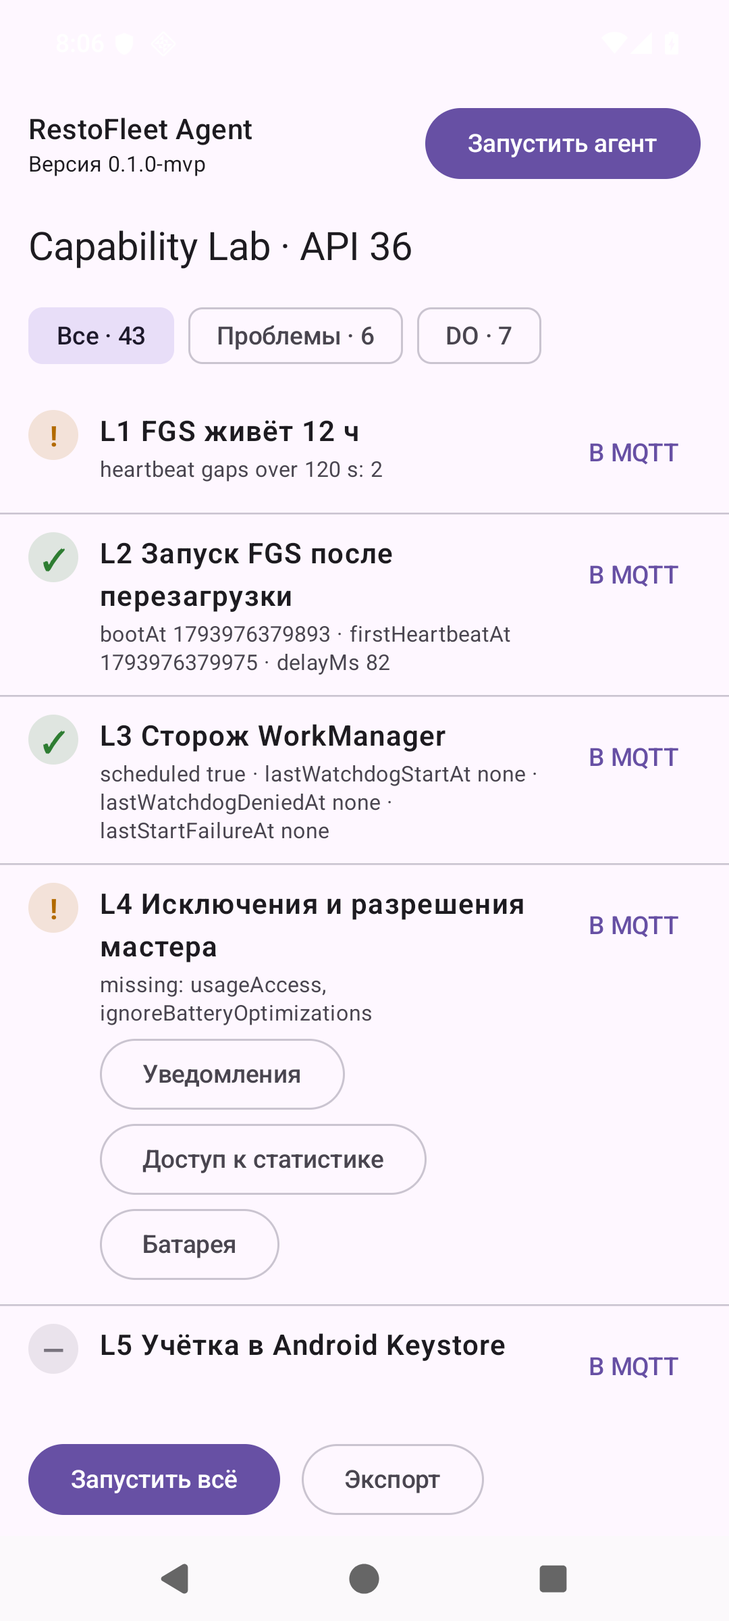
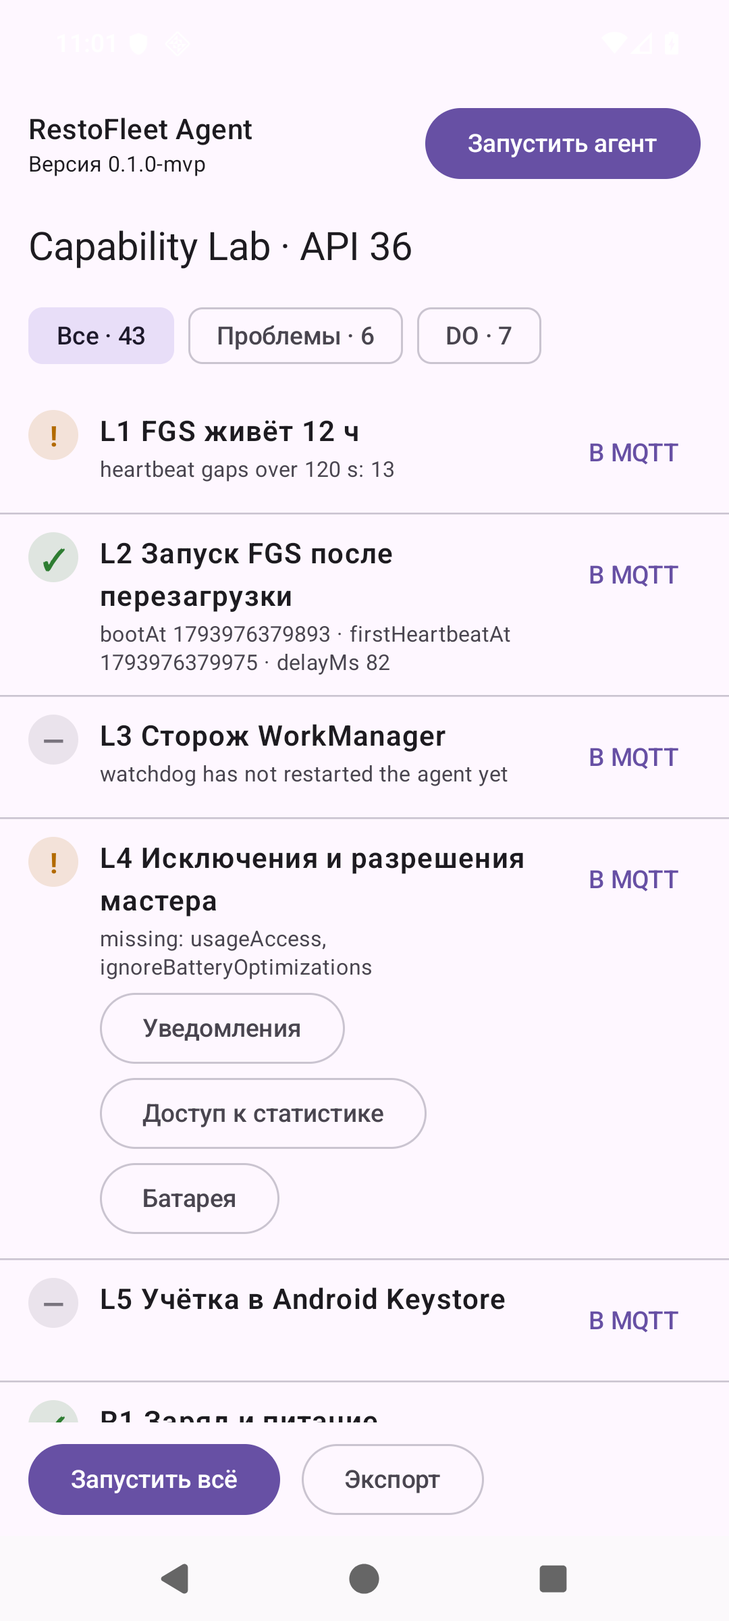
docs(mvp): M1 report and handoff

diff --git a/docs/reports/0-mvp/M1.md b/docs/reports/0-mvp/M1.md
@@ -1,0 +1,194 @@
+# Отчёт вехи M1 — агент: все считывания
+
+**Этап:** MVP-A · **Ветка:** `stage/0-mvp` · **Даты:** 06–07.11.2026 · **План:** `docs/superpowers/plans/2026-11-05-mvp-a.md`, задачи 1.1–1.10 · **Диапазон коммитов:** `5379cba..008162b` (затем коммит этой задачи)
+
+## Цель вехи
+
+Сделать Android-агент, который умеет считывать все показатели из матрицы возможностей и показывает результат на экране Capability Lab:
+- модуль `console:core:mvi` с каноном MVI (по `white-label-android`);
+- `agent:domain` — модель считываний, `CollectTelemetry`, каталог из 43 проверок, `RunCapabilityChecks`, `ExportCapabilityReport`;
+- `agent:data` — коллекторы R1–R9, R11, R12, R14, HTTPS-пробы P1–P3, журналы жизненного цикла, JSON-отчёт;
+- `agent:app` — FGS `specialUse`, автозапуск, сторож WorkManager, Koin;
+- `agent:presentation` — Capability Lab (MVI) с запуском проверок и экспортом отчёта.
+
+## Что сделано
+
+| Задача | Результат | Ключевые файлы |
+|---|---|---|
+| 1.1 | `console:core:mvi` (KMP: Android + JVM): контракты `MviIntent/Action/State/Effect`, `Reducer`, `MviStore`, `BaseMviViewModel` (`InstanceKeeper.Instance`, эффекты через `Channel`) | `console/core/mvi/src/commonMain/.../{MviStore,Reducer,BaseMviViewModel}.kt` |
+| 1.2 | `agent:domain`: модель (`Reading`, `UnavailableReason`, `BatteryState`, `Thermal`, `Network`, `DeviceResources`, `ForegroundApp`, `TelemetrySnapshot`) и порты `TelemetrySource`, `SequenceSource` | `agent/domain/.../model/*.kt`, `port/*.kt` |
+| 1.3 | `CollectTelemetry`: каждое считывание изолировано, сбой превращается в `Unavailable(Failed(...))` | `agent/domain/.../usecase/CollectTelemetry.kt` |
+| 1.4 | Каталог из 43 `CheckId`, `CheckStatus`, `CapabilityCheck`, `RunCapabilityChecks` (таймаут на проверку), `ExportCapabilityReport` | `agent/domain/.../capability/*.kt`, `usecase/*.kt` |
+| 1.5 | Первый Android-модуль `agent:data`: чистые функции маппинга Android → domain (батарея, термальный статус, сеть, ресурсы, приложение на экране, падение, пропуски heartbeat); отдельный Kover-гейт «ветви платформенного пакета 100 %» | `agent/data/.../platform/*.kt` |
+| 1.6 | Коллекторы R1–R9, R11, R12, R14, `ReadingCheck`, `SubscriptionCheck`, `CapabilityChecksFactory` | `agent/data/.../collectors/*.kt` |
+| 1.7 | HTTPS-пробы на OkHttp (классы ошибок, фазы соединения), проба шлюза, проверки P1–P3 | `agent/data/.../probes/*.kt`, `agent/domain/.../model/Probe.kt` |
+| 1.8 | `agent:app`: FGS `specialUse`, `BootReceiver`, `WatchdogWorker` (15 мин), журнал жизненного цикла, `HeartbeatLog`, проверки L1–L4, Koin | `agent/app/src/main/...`, `agent/data/.../lifecycle/*.kt` |
+| 1.9 | `agent:presentation`: Capability Lab (MVI), JSON-экспорт отчёта, порт `CheckResultPublisher` (в M1 — заглушка «MQTT не настроен»); P1 переведена на параллельный запуск целей | `agent/presentation/.../lab/**`, `agent/data/.../report/JsonCapabilityReportWriter.kt` |
+| Исправления по итоговому ревью вехи | 7 Important (I1–I7), перенесённые Minor, два раунда (решения 78–88) | см. раздел «Итоговое ревью вехи» |
+| 1.10 | Этот отчёт, пересъёмка скриншотов и JSON Lab, обновление документов этапа и handoff | `docs/reports/0-mvp/M1.md`, `img/`, `capability/` |
+
+## Решения
+
+См. `decisions.md`: записи 26–47 — задачи 1.2–1.7, 48–77 — задачи 1.8–1.9, 78–88 — исправления по ревью вехи. Главные:
+- **№ 27, 78:** `Error` не ловится (OOM не превращается в «все датчики Failed»); на границах изоляции `CancellationException` разбирается через `ensureActive()`: настоящая отмена идёт наружу, бродячая считается сбоем одного считывания.
+- **№ 39:** `ConnectException` в Android оборачивает разные errno, поэтому классификатор разбирает текст всей цепочки причин по errno (`ECONNREFUSED`, `ETIMEDOUT`, `ENETUNREACH`, `EPERM/EACCES`); иначе P3 принимал бы недостижимый шлюз за достижимый.
+- **№ 33:** `isEmulator` определяется по `Build.HARDWARE` (`ranchu`/`goldfish`) и префиксу fingerprint, а не по подстроке, как в плане: подстрока давала ложные срабатывания на реальных устройствах.
+- **№ 61:** весь цикл телеметрии (запись `start`, тик, heartbeat) идёт на инжектируемом `CoroutineDispatcher` (в проде — IO), а не на Main.
+- **№ 81, 88:** агент держит `PARTIAL_WAKE_LOCK` `RestoFleet:agent`, пока работает цикл; владелец замка — последний `Lease`. Цена по батарее записана как продуктовое решение и будет измерена в M4.
+- **№ 83:** R8 (приложение на переднем плане) stateful: первый запрос — с момента загрузки, дальше с прошлого запроса минус 60 с; иначе приложение, которое весь час не уходит с экрана, давало `Unavailable`.
+- **№ 84:** L3 = OK только после наблюдённого перезапуска сторожем; «запланирован, но ни разу не перезапускал» — `NOT_CHECKED`.
+
+## Метрики
+
+Команды: `./gradlew build koverHtmlReportCi koverXmlReportCi` (HEAD `008162b`, `BUILD SUCCESSFUL`, `rc=0`); число тестов — суммы атрибутов `tests/failures/errors/skipped` из `**/build/test-results/**/TEST-*.xml`; покрытие — из `reportCi.xml` каждого модуля и корня.
+
+| Модуль | Тестов | Строки | Ветви | Инструкции |
+|---|---|---|---|---|
+| `console:core:mvi` | 10 | 100 % (21/21) | 100 % (4/4) | 100 % |
+| `agent:domain` | 49 | 97,4 % (187/192) | 83,3 % (35/42) | 97,0 % |
+| `agent:data` | 297 | 97,4 % (851/874) | 87,6 % (416/475) | 95,7 % |
+| `agent:presentation` | 58 | 97,8 % (176/180) | 94,6 % (105/111) | 98,5 % |
+| `agent:app` | 39 | 98,1 % (158/161) | 71,8 % (28/39) | 98,8 % |
+| **M1, итого** | **453** | | | |
+| `shared:kernel` / `shared:protocol` / `konsist-tests` (M0) | 15 / 22 / 5 | 100 % / 100 % | | |
+| **Проект целиком (корневой агрегат)** | **495, 0 падений, 0 пропусков** | **97,0 % (1531/1579)** | 73,7 % (766/1039) | 93,3 % |
+
+- Гейты: проект ≥ 80 %, `agent:*` ≥ 90 % по строкам; ветви платформенного пакета `agent:data` — 100 % (отдельный вариант Kover `platform`). Ветви в `agent:app` (71,8 %) и в корне (73,7 %) ниже строк: гейт идёт по строкам; в корне ветви тянут вниз сгенерированные сериализаторы `shared:protocol` (48,1 %), как отмечено в M0.
+- Объём кода (`wc -l`, Kotlin; `cloc` не установлен): production — `agent:domain` 442, `agent:data` 2430, `agent:presentation` 774, `agent:app` 507, `console:core:mvi` 104, всего 4257 строк; тесты — 696, 3928, 813, 737, 187, всего 6361 строка.
+- Время сборки: повторная полная `build koverHtmlReportCi koverXmlReportCi` — 5 с (486 задач, 29 выполнено, остальные up-to-date). Время сборки с нуля в M1 не замерялось (`./gradlew clean` не делался); в M0 было ≈ 1 мин. Самый долгий из сохранённых логов полных прогонов M1 с большим числом выполненных задач — 17 с (`task-1.9-full.log`, 73 задачи выполнено).
+- Capability Lab на `rf-api36` (API 36, эмулятор, «Запустить всё» после исправлений), 43 записи в JSON: **ok — 12, limited — 3, unavailable — 3, not_checked — 25**.
+  - `limited`: L1 (13 пропусков heartbeat длиннее 120 с; `wakeLock=held`), L4 (не выданы `usageAccess` и исключение из оптимизации батареи), P1 (`nonexistent: expected dns_fail, got tls_error`).
+  - `unavailable`: R5 (`PermissionMissing: ACCESS_FINE_LOCATION`), R8 (`PermissionMissing: PACKAGE_USAGE_STATS`), R11 (`missing sensor: significant_motion`).
+  - `not_checked` (25): L3, L5, R10, R13, P4, C1–C4, D1–D7, M1–M7, RS1–RS2. Для L3 это новое поведение (решение 84): в снимках задачи 1.9 L3 был ✅ без доказательства.
+  - Для сравнения, снимок задачи 1.9 (до исправлений): ok 13, not_checked 24, limited 3, unavailable 3.
+  - В JSON нет MAC, IMEI и серийного номера (`grep -ciE` — 0 совпадений).
+- Wake lock: `adb shell dumpsys power | grep -i restofleet` → `PARTIAL_WAKE_LOCK 'RestoFleet:agent' ACQ=-6m4s600ms LONG (uid=10150 ...)`; `Wake Locks: size=1`.
+
+![Lab после «Запустить всё»](img/lab-api36-1.png)
+![Вкладка «Проблемы»](img/lab-api36-2.png)
+![Проблемы, блок P1](img/lab-api36-3.png)
+
+## Ручная пересъёмка Lab (задача 1.10)
+
+Это же — первая ручная проверка Lab после исправлений: в раунде исправлений Lab «Запустить всё» через UI не прогонялся. AVD `rf-api36`, `-no-window -no-audio -no-boot-anim -port 5600`, debug-APK поставлен поверх (`install -t -r`), нажатия через `uiautomator dump` и `input tap`.
+- «Запустить всё» отработало до конца, все строки получили статусы; кнопки остались рабочими: после прогона «Экспорт» создал новый файл (9952 байта).
+- «Экспорт», нажатый сразу после «Запустить всё», проигнорирован: файл отчёта на третьей секунде сохранял старое время изменения. Это косвенное доказательство (прямого наблюдения без таймстемпа не было).
+- Foreground-сервис: `isForeground=true`, `types=0x40000000` (specialUse).
+- L1 показывает 13 пропусков heartbeat; максимальный — 14 156 166 мс (≈ 3,9 ч). Причину (вероятно, приостановка AVD при загрузке из снимка) не проверяли.
+- P1 `nonexistent.invalid` по-прежнему даёт `tls_error` за 1472 мс (см. «Что осталось»).
+- `adb emu kill` выполнен, `adb devices` пуст.
+
+## Как проверялось, что тесты что-то ловят
+
+Мутационные проверки из отчётов задач и повторных ревью (мутация делалась временной правкой production-кода и откатом):
+
+| Что сломали | Результат |
+|---|---|
+| 1.5: убрана строка `setOf(4) to NetworkType.OTHER` из теста сети | `koverVerifyPlatform` упал: ветви 98 % при пороге 100 % |
+| 1.6: условие ожидания старта в `SubscriptionCheck.run()` → `if (false)` | упали `runRightAfterCreationWaitsForSubscriptionStart` и `subscriptionThatNeverStartsIsNotChecked` |
+| 1.7: удалён `invokeOnCancellation` в `OkHttpProbeExecutor` | упал тест отмены |
+| 1.7: удалён `socket.close()` в `GatewayProbe` | упал тест отмены |
+| 1.9: P1 запускалась последовательно (проверка на виртуальном времени) | `p1ProbesTargetsConcurrentlyAndKeepsOrder`: 21 000 мс вместо 6 000 |
+| Раунд 1, повторное ревью: убрана ветка `NOT_CHECKED` в `LifecycleChecks` | упали 3 теста L3 |
+| убран `hold` на тике / в `AgentCycle.start` | упали `loopRenewsWakeLockOnEveryTick`, `loopReleasesWakeLockWhenItIsCancelled` / `cycleHoldsWakeLockFromStartAndReleasesItOnStop` |
+| убран `release` в `stop()` | упал `cycleHoldsWakeLockFromStartAndReleasesItOnStop` (**не** эквивалентный мутант: без синхронного release замок держится до обработки отмены корутины; эквивалентным он ошибочно назван в отчёте исправлений) |
+| `TelemetryLoop`: убран `ensureActive`; CE бросается всегда | упали `outerCancellationStopsTheLoop`, `outerCancellationDuringStrayCancellationStillStopsTheLoop` / `strayCancellationFromTickDoesNotKillTheLoop` |
+| `CollectTelemetry`, `RunCapabilityChecks`, `P1Check`: CE бросается всегда | упали `strayCancellationFromReadingIsAFailureNotAnAbort`, `strayCancellationFromCheckDoesNotAbortTheRun`, `p1StrayCancellationIsUnavailableNotAnAbort` и парные |
+| `CollectTelemetry`: убран `withTimeoutOrNull`; `AndroidTelemetrySource`: убран `runInterruptible` | упали `hangingReadingTimesOutAndOthersAreCollected`, `everyHangingReadingGetsItsOwnTimeout` / `everyBlockingReadingGoesThroughTheIoDispatcher` |
+| `AgentService`: убраны catch отказов, `START_NOT_STICKY` → `START_STICKY`, убран `stopSelf` | упали 3, 2 и 2 теста соответственно |
+| R8: `lastApp = null`; окно `now − 1 ч`; убран `previous` в резолвере | упали `secondReadWithoutNewEventsKeepsForegroundApp`, `switchingFromAToBAndStayingOnBKeepsB` / 4 теста, включая `appResumedTwoHoursAgoIsStillForeground` / по 2 теста коллектора и резолвера |
+| Раунд 2: в `CollectTelemetry`, `RunCapabilityChecks`, `P1Check` убран `ensureActive()` (выживали после раунда 1) | упали `cancellationOfCallerInsideReadingStopsCollectionInInvokeItself`, `cancellationOfCallerInsideCheckStopsTheRunInInvokeItself`, `p1CancellationOfCallerInsideProbeIsRethrownByRunItself` |
+| `LabViewModel.export` / `runAll`: `finally` заменён / убран | упали `errorFromExportResetsProgressAndIsNotSwallowed`, `errorFromCheckInRunAllResetsFlagsAndIsNotSwallowed` |
+| R8: `lastQueryAt = null` вместо `now` | упал `secondQueryIsIncrementalNotFromBootAgain` |
+| Wake lock: `release`/`renew` без проверки владельца; нет `invokeOnCompletion { release }` | упали `lateCompletionOfStoppedCycleDoesNotReleaseTheLockOfTheNewCycle`, `supersededLeaseCannotReleaseOrRenewTheNewOwnersLock`, `cycleThatDiesByItselfReleasesItsLock` |
+
+Оговорки, которые нужно помнить при цитировании:
+- Красная стадия у большинства находок раунда исправлений — ошибка компиляции (новые параметры и классы), а не падение утверждения; поведенческий RED снят только для I3 и #2a. Для I7 RED снят после реализации откатом файлов.
+- В задаче 1.8 поведенческое падение каждого нового теста `agent:app` по отдельности не фиксировалось.
+- Тесты, написанные вместе с кодом без красной стадии: `GatewayResolverTest`, `NetworkAvailabilityTest` (1.7).
+- Выжившие мутанты после раунда 2: `@Synchronized` у `ForegroundAppCollector` тестом не закреплён (детерминированного теста на гонку нет); проверка вручную — в M4.
+
+## Проблемы и как решены
+
+1. **Ложный OK у `SubscriptionCheck` (ревью 1.6).** Проверка возвращала OK после отмены подписки и до первого `collect`. Теперь OK — только при живой подписке, отмена или завершение → UNAVAILABLE, не стартовала за 2 с → NOT_CHECKED (№ 34). Тест гонки сначала оказался «пустым» (проходил без ожидания) — переписан и проверен мутацией `if (false)`.
+2. **Классификация сетевых ошибок (ревью 1.7).** Все `ConnectException` считались `CONN_REFUSED`, поэтому P3 принимала недостижимый шлюз за достижимый. Классификатор разбирает errno по всей цепочке причин (№ 39); цель `conn_refused` в P1 заменена на `https://127.0.0.1:9/` (план предлагал `10.0.2.2:9`, что работает только на эмуляторе); расхождение P1 даёт LIMITED с `raw` по каждой цели.
+3. **P1 не укладывалась в таймаут проверки.** Шесть целей последовательно — до 28 с против 10 с на проверку. Цели запускаются параллельно (`coroutineScope` + `async`); тест на виртуальном времени: 6 000 мс вместо 21 000.
+4. **Цикл телеметрии и файловый ввод-вывод на Main (ревью 1.8).** Цикл переведён на инжектируемый IO-диспетчер (№ 61).
+5. **Журнал мог блокировать автозапуск (ревью 1.8).** Ошибка записи журнала (`IOException`) останавливала `BootReceiver` и могла уронить сервис. Запись стала best effort (№ 62); оборванный хвост вырезается атомарно (№ 63).
+6. **Нет доказательства, что сторож создаётся Koin-фабрикой (ревью 1.8).** Добавлены Robolectric-тесты на реальном `RestoFleetApp` (№ 68). Живой запуск сторожа на эмуляторе получить не удалось: WorkManager откладывает периодическую работу, запущенную раньше срока, даже при принудительном запуске job.
+7. **Агент не держал wake lock (ревью вехи, I2).** Без него `delay(30 с)` не будит CPU, а L1 измерял бы нашу реализацию, а не платформу. Добавлен `PARTIAL_WAKE_LOCK`; повторное ревью нашло гонку «старый цикл снимает замок нового» (N2), исправлено моделью `Lease` (№ 88).
+8. **Бродячий `CancellationException` убивал цикл и прогон Lab (I3).** Тест плана `cancellationIsNotSwallowed` закреплял ошибку (см. отклонения). Исправлено на всех границах изоляции.
+
+## Отклонения от плана
+
+Все решения-«Ruling» M1 из журнала, человеческим языком:
+- **Исполнители.** `kmp-exec` для KMP-модулей, `android-exec` для Android-модулей, модель sonnet; бриф и `constraints.md` приоритетнее их продуктового канона. Задача 1.7 отдана одному `android-exec`, хотя `Probe.kt` лежит в `agent:domain`: два диспетчера ради двух файлов дольше.
+- **Брифы задач** формирует `tools/dev/task-brief.py`: скрипт SDD ищет заголовки `Task N`, а в плане — `Задача N`.
+- **1.2: тестов на сгенерированные члены data class нет.** Покрытие моделей берётся из поведенческих тестов.
+- **1.3: ловится `Exception`, а не `Throwable`.** Прежняя директива контроллера «catch Throwable» была неверной: `Error` не должен превращаться в «все датчики Failed» (№ 27).
+- **1.6: `ACCESS_COARSE_LOCATION` оставлен**, хотя ревьюер просил убрать: при `targetSdk ≥ 31` запрос FINE без COARSE игнорируется. `isEmulator` — вместо подстроки из плана (№ 33). `CheckIdTest` закрепляет 43 как число проверок спецификации.
+- **1.7: P1 `conn_refused` — `127.0.0.1:9`, расхождение P1 — LIMITED (не UNAVAILABLE) с `raw`;** `ConnectException` классифицируется по errno (`EHOSTUNREACH` и неизвестное → `OTHER`, новое значение enum не вводилось: он зафиксирован протоколом).
+- **R-M1 (до 1.9).** Порт `CheckResultPublisher` и use case `PublishCheckResult` вводятся в 1.9, потому что MQTT появится только в 3.6; пока подставлена реализация «MQTT не настроен», 3.6 её заменит.
+- **R-M2.** В `agent:data` добавлены `kotlinx-serialization-json` и плагин сериализации (для JSON-отчёта).
+- **R-M3.** `OutboxEntity` в 3.3 будет хранить `kind`, `payload`, `qos`, `retain`, `correlationData`, `responseTopic`, `createdAt`, иначе буферизованные ответы на команды потеряют топик ответа.
+- **Каркас Kover для Android-модулей** — вариант `ci` и `kover(project)` в корне — вносится в каждую задачу (решение 18).
+- **1.8: живая проверка сторожа перенесена в M4** (WorkManager не выполняет периодическую работу раньше срока); перезапуск доказан тестами Koin-фабрики.
+- **Раунд исправлений и план.** Тест плана `cancellationIsNotSwallowed` закреплял ошибку, поэтому семантика уточнена: настоящая внешняя отмена идёт наружу, `CancellationException` от считывания при активном вызывающем — сбой (`ensureActive`-паттерн).
+- **I2: wake lock берётся на всё время цикла.** Планшеты ресторанов стоят на питании, приложение вне Play; цену по батарее измеряем в M4. Обратимо удалением держателя.
+- **I6: процедура L3 из матрицы неработоспособна.** `am kill` не убивает процесс с FGS, `START_STICKY` поднимает сервис раньше сторожа. Процедура заменена в `0-mvp-feasibility.md` (остановить сервис без sticky-перезапуска, дождаться периода сторожа, ожидать `start|watchdog`).
+- **Один раунд исправлений вехи → два.** Правило «одна волна исправлений» нарушено сознательно: после первого раунда повторное ревью нашло, что `ensureActive()` в трёх местах тестами не закреплён (выживающие мутанты на ядре гарантии I3) и дыру в I2 (запоздалый release старого цикла). N2 из Minor повышен до Important: в suspend следующий тик может не прийти, и замок пропал бы навсегда. Второй раунд ограничен: тесты N1 и N3, исправление владельца замка, повторное ревью.
+
+## Итоговое ревью вехи
+
+Независимый ревьюер (отдельный агент, модель opus) проверил диапазон `5379cba..9c841d7`: прочитал дифф production-кода целиком, тесты — выборочно, сверился с Kover-отчётом и экспортом Lab; сами тесты не запускал. Результат: Critical — 0, Important — 7, Minor — 8 (m1–m8) плюс 4 перенесённых из ревью 1.9. Вердикт: «Ready to merge: With fixes». Исправления делал исполнитель; первое повторное ревью (sonnet, мутации в отдельном worktree) — «Needs fixes», второе (sonnet, после раунда 2, 4 собственные мутации) — «Approved».
+
+| Находка | Исправление | Тест |
+|---|---|---|
+| I1. R8 пропадает, если приложение на экране дольше часа | коллектор stateful: окно от загрузки, затем от прошлого запроса − 60 с, `PAUSED` снимает (№ 83) | `appResumedTwoHoursAgoIsStillForeground`, `secondReadWithoutNewEventsKeepsForegroundApp`, `switchingFromAToBAndStayingOnBKeepsB`, `UsageWindowTest`, `secondQueryIsIncrementalNotFromBootAgain` |
+| I2. Нет wake lock — тики останавливаются в suspend | `PARTIAL_WAKE_LOCK`, продление на каждом тике, release в `stop` и по завершении корутины; признак `wakeLock` в raw L1 (№ 81, 88) | `loopRenewsWakeLockOnEveryTick`, `cycleHoldsWakeLockFromStartAndReleasesItOnStop`, `AndroidCpuWakeLockTest`, `runningCycleHoldsPartialWakeLockAndReleasesItOnDestroy`, `lateCompletionOfStoppedCycleDoesNotReleaseTheLockOfTheNewCycle` |
+| I3. Бродячий `CancellationException` убивает цикл и прогон Lab | `ensureActive()` на границах: `TelemetryLoop`, `CollectTelemetry`, `RunCapabilityChecks`, `P1Check`, `LabViewModel` (№ 78) | `strayCancellationFromTickDoesNotKillTheLoop`, `innerTimeoutOfOneCheckDoesNotAbortTheRun`, `p1StrayCancellationIsUnavailableNotAnAbort`; раунд 2 — три теста «ensureActive в `invoke`» |
+| I4. `LabViewModel`: зависшие флаги, исключение роняет процесс | флаги в `finally`, `Exception` → `LabMessage.Error`, `CoroutineExceptionHandler` в scope (№ 79) | `throwingExportResetsProgressAndShowsError`, `strayCancellationInRunAllDoesNotLeaveRunAllStuck`, `errorFromExportResetsProgressAndIsNotSwallowed`, `errorFromCheckInRunAllResetsFlagsAndIsNotSwallowed` |
+| I5. Незащищённый `startForeground` → цикл падений на API 31+ | шов `ForegroundStarter`, `start_denied(foreground_not_allowed)` / `start_failed`, `stopSelf`, `START_NOT_STICKY` (№ 80) | `deniedStartForegroundIsJournaledAndDoesNotCrash`, `otherStartForegroundFailuresAreJournaledAsFailedWithClassName`, `refusedForegroundDoesNotStopServiceOnDestroyWithAStopRecord` |
+| I6. L3 = OK без единого перезапуска сторожем | OK только после `start|watchdog` позже последнего срыва; иначе `NOT_CHECKED` (№ 84) | четыре ветки L3 + два новых случая в тестах `LifecycleChecks` |
+| I7. Зависание одного считывания останавливает цикл | таймаут считывания 5 с, `runInterruptible` на IO (№ 82) | `hangingReadingTimesOutAndOthersAreCollected`, `everyBlockingReadingGoesThroughTheIoDispatcher` |
+| 1.9 #1. Исключения Kover по именам слишком широкие | выбор `@StringRes` вынесен в `StringSpec.kt`; исключены только фасады UI (№ 85) | `StringSpecTest` |
+| 1.9 #2a. Отчёт оставлял `.tmp` при сбое | `.tmp` удаляется в `finally` (№ 87) | `targetNameOccupiedByDirectoryFailsAndLeavesNoTempFile` |
+| 1.9 #3b. «Экспорт» во время «Запустить всё» запускал проверки дважды | экспорт игнорируется (№ 86) | `exportIsIgnoredWhileRunAllIsInProgress` |
+| 1.9 #4, m1. Koin verify и тавтологический тест сторожа | `Long`/`CoroutineScope` только в `appModule.verify`; тест сторожа переписан (№ 87) | `KoinGraphTest`, `KoinModulesVerifyTest`, `WatchdogSchedulerTest` |
+| N1 (повторное ревью, Important). `ensureActive()` и `finally` флагов Lab не закреплены | тесты (см. мутации раунда 2) | см. таблицу мутаций |
+| N2 (Minor → Important). Старый цикл снимает замок нового | модель `Lease` (№ 88) | `supersededLeaseCannotReleaseOrRenewTheNewOwnersLock`, `cycleThatDiesByItselfReleasesItsLock` |
+| N3. Нет теста инкрементального окна R8 | тест окна; `@Synchronized` без теста — принято, проверка в M4 | `secondQueryIsIncrementalNotFromBootAgain` |
+
+Отложенные Minor и вехи, в которые они перенесены:
+- **M2:** m4 — неквалифицированный `single<OkHttpClient>` для проб, заменить qualifier'ом при добавлении загрузчика APK (D3); m8 — отчёт на внешнем хранилище читается на API 26–28, серийный номер (R13) в `raw` маскировать (последние 4 символа или хеш).
+- **M3:** m2 — L1/L2 опираются на настенные часы (хранить `elapsedRealtime`); m5 — статические `<queries>` и фиксированный интервал телеметрии против управляемого тенью списка; rec5 — `LifecycleJournal` синхронный и пишется с Main, нужен `suspend`-порт `LifecycleEvents` и `goAsync()` в `BootReceiver` (Room запрещает главный поток); N4 — запись журнала на Main при отказе FGS; непрерываемые binder-зависания не бросаются; персистентный `seq` и ограничение длины `Failed(message)`; порядок «outbox → heartbeat» в `TelemetryTick` (L1 должен означать «телеметрия сохранена», а не «цикл жив», решение 54).
+- **M4:** m3 — в `raw` P1 нет улик по целям (фазы, класс исключения); перенос целей 503 и просроченного сертификата на стенд; R8 `@Synchronized` без теста; `callTimeout` не прерывает блокирующий системный DNS; `ConnectionPool(0)` под N проб; замер цены wake lock.
+- **Позже:** m6 — у уведомления FGS нет `contentIntent`; m7 — проводка тика в исключённом `di` не проверена сквозным тестом; «экспорт результатов текущей сессии»; порядок `owner = lease` до `lock.acquire` в `CpuWakeLock.acquire` (безвредно при `SecurityException`); мелкие замечания к ревью задач 1.1–1.9 (имена тестов, длинные строки, класс `WatchdogWorker.kt` с тремя классами и т. п.) — в `progress.md` помечены `minor (deferred)`.
+- Ревьюер отказался судить (нужны данные M4/MVP-B): Direct Boot, force-stop и вендорские «убийцы фона», разрешение на локальную сеть при `targetSdk 37` (решения 47, 59), системный HTTP-прокси для проб, ложные срабатывания `isEmulator` на дешёвых AOSP-планшетах.
+
+## Что осталось
+
+- **Живой запуск сторожа (L3)** — M4: остановить сервис без sticky-перезапуска, дождаться периода 15 мин, ожидать `start|watchdog` в журнале. Сейчас L3 = `NOT_CHECKED`.
+- **L1 на образе или устройстве, которое засыпает** — M4 (экран выключен, без питания); на эмуляторе без выключения экрана L1 показывает пропуски heartbeat (13 на `rf-api36`), причина не расследовалась.
+- **P1 `nonexistent.invalid` → `tls_error` вместо `dns_fail`.** По коду это поведение среды: `UnknownHostException` в цепочке проверяется раньше TLS-ошибок, значит, резолвер вернул адрес и сертификат не подошёл (подмена NXDOMAIN или прокси AVD — гипотеза, не проверена). Фиксируем как дефект среды стенда, не агента. Чтобы закрыть вопрос, нужны улики в `raw` P1 (адрес и фазы) и проверка на реальной сети — M4. Повторилось при пересъёмке: `tls_error`, 1472 мс.
+- **Маскировка серийного номера R13** — M2; **qualifier OkHttp** — M2; **порт `LifecycleEvents` и Room-outbox** — M3.
+- Проверки со статусом `not_checked` (L5, R10, R13, P4, C1–C4, D1–D7, M1–M7, RS1–RS2) относятся к M2–M4.
+- Ветви `agent:app` (71,8 %) ниже строк; светлые значки статус-бара на светлом фоне Lab; сводка Lab показывает epoch-миллисекунды и английские примечания (L2, L1) — отформатировать для скриншотов в тексте работы (M4 или диплом).
+- Ручная проверка на реальном устройстве не проводилась.
+- Первый прогон CI — после создания GitHub-репозитория и пуша.
+
+## Тезисы для текста работы
+
+1. **Архитектура агента.** Android-агент построен по Clean Architecture из четырёх модулей: `domain` (мультиплатформенный, без зависимостей от Android, сериализации и DI), `data` (коллекторы, HTTPS-пробы, журналы, отчёт), `presentation` (экран Capability Lab) и `app` (корень композиции: сервис переднего плана, приёмник перезагрузки, сторож, Koin). Правило зависимостей проверяется автоматически архитектурными тестами Konsist. Объём кода вехи — 4257 строк production-кода и 6361 строка тестов на Kotlin.
+
+2. **Изоляция сбоев.** Каждое считывание показателя, каждая проверка возможностей и каждый тик цикла выполняются в собственном перехватчике исключений, поэтому отказ одного датчика или отозванное разрешение не останавливают остальные считывания. Критические ошибки (`Error`) не перехватываются, чтобы не маскироваться под «все датчики недоступны». Особый случай — отмена корутины: настоящая отмена пробрасывается наружу, а «бродячее» исключение отмены (например, из внутреннего таймаута) считается сбоем одного считывания. Для каждого считывания введён таймаут 5 с. Ревью обнаружило, что исходная схема останавливала телеметрию навсегда при одном зависании; после исправления поведение закреплено тестами, мутации которых падают.
+
+3. **Capability Lab и матрица возможностей.** Экран Capability Lab запускает 43 проверки матрицы возможностей, показывает статус каждой (`ok`, `limited`, `unavailable`, `not_checked`) и сырые значения и экспортирует результат в JSON-отчёт, из которого собирается матрица для текста работы. На эмуляторе Android 16 (API 36) 12 проверок вернули `ok`, 3 — `limited`, 3 — `unavailable`, 25 — `not_checked` (проверки Device Owner, команд и MQTT относятся к следующим вехам). Отчёт не содержит IMEI, MAC-адресов и серийного номера. Проверка, отмеченная `ok` без доказательства, считалась дефектом: так, проверка сторожа L3 переведена в `not_checked` до наблюдаемого перезапуска.
+
+4. **Надёжность фоновой работы.** Агент работает как сервис переднего плана типа `specialUse`, автоматически запускается после перезагрузки и перезапускается сторожем WorkManager с периодом 15 минут. Журнал жизненного цикла и heartbeat устойчивы к обрыву записи: оборванный хвост отбрасывается и вырезается атомарно, ошибка записи не мешает автозапуску. Итоговое ревью показало, что без удержания `PARTIAL_WAKE_LOCK` телеметрия останавливается при выключенном экране; замок добавлен, а его владение (последний `Lease`) исключает гонку между старым и новым циклом. Влияние на батарею будет измерено на этапе проверки матрицы (M4).
+
+5. **Проверки доступности сети.** Проба HTTPS на OkHttp измеряет фазы соединения (DNS, TCP, TLS) и классифицирует ошибки по классам протокола. Ошибки сокета Android различаются по errno (в одном `ConnectException` приходят `ECONNREFUSED`, `ETIMEDOUT`, `ENETUNREACH`, `EPERM`), поэтому классификатор разбирает всю цепочку причин; иначе недостижимый шлюз принимался бы за достижимый. Шесть целей проверки P1 запускаются параллельно: тест на виртуальном времени показал 6 000 мс вместо 21 000 мс при последовательном запуске. На эмуляторе одна цель (`nonexistent.invalid`) вернула `tls_error` вместо `dns_fail`; по коду это поведение среды (имя разрешилось), проверка на реальной сети перенесена в M4.
+
+6. **Метод тестирования.** Разработка велась по TDD с красной стадией; для проверки самих тестов применялись мутационные проверки: временная порча production-кода (удаление `ensureActive()`, `finally`, `release`, ветки статуса) должна приводить к падению поведенческого теста. Такие проверки нашли тесты, которые не ловили ошибок (например, тест гонки в `SubscriptionCheck` проходил без ожидания, а `ensureActive()` в трёх местах не был закреплён); они переписаны. К оговоркам относится то, что у большинства находок раунда исправлений красная стадия фиксировалась как ошибка компиляции, а не как падение утверждения.
+
+7. **Результаты по метрикам.** К концу вехи в проекте 495 unit-тестов (453 из них — в модулях вехи M1), падений и пропусков нет. Покрытие строк по Kover (вариант `ci`): `agent:domain` 97,4 %, `agent:data` 97,4 %, `agent:presentation` 97,8 %, `agent:app` 98,1 %, весь проект 97,0 % при гейте 80 %. Покрытие ветвей ниже (в корне 73,7 %): гейт задан по строкам, а ветви завышают сгенерированные сериализаторы; для платформенного пакета `agent:data` отдельным гейтом требуется 100 % ветвей, и он выполнен. Повторная полная сборка занимает около 5 с; время сборки с нуля в этой вехе не измерялось.

diff --git a/docs/architecture.md b/docs/architecture.md
@@ -89,6 +89,7 @@ flowchart LR
 - Протокол MQTT (`shared:protocol`) — это **DTO транспорта**, т.е. слой data. Domain о JSON и топиках не знает; мапперы `TelemetryDto ↔ TelemetrySnapshot` — в data.
 - Ошибки: data превращает исключения в `DomainError` (тип `Outcome<T, E>` в `shared:kernel`; имя выбрано, чтобы не затенять `kotlin.Result`); presentation превращает `DomainError` в UI-сообщение или HTTP-статус.
 - Время и случайность — через порты `Clock`, `IdGenerator`: use cases детерминированно тестируются.
+- **Изоляция сбоев на границе** (решения 27, 78, 82): каждое считывание, проверка Lab и тик цикла — в своём `try`. Ловится `Exception`, `Error` пробрасывается. `CancellationException` на границе не пробрасывается вслепую: `currentCoroutineContext().ensureActive()` отделяет настоящую отмену (наружу) от бродячей (внутренний `withTimeout`, `Future.get()` отменённого future) — та считается сбоем одного считывания. У каждого считывания свой таймаут (5 с), блокирующие вызовы идут через `runInterruptible` на IO.
 - **Архитектурные тесты:** Konsist (`konsist` в `jvmTest`/`test`) проверяет, что `..domain..` не импортирует `android.*`, `io.ktor.*`, `org.jetbrains.exposed.*`, что use case имеет один публичный `invoke`, что ViewModel не ссылается на data-классы.
 
 ### 3.2 Как слои раскладываются по частям
@@ -213,7 +214,7 @@ kotlin {
 1. `BaseMviViewModel` реализует `InstanceKeeper.Instance`, свой scope отменяется в `onDestroy`; API идентичен white-label: `uiState: StateFlow`, `effect: Flow`, `onIntent()`, защищённые `reduce()`/`emitEffect()`.
 2. Навигация — вызов `I<F>Router` из `onIntent`, не `Effect`.
 3. Эффекты собирает ровно один подписчик — `ObserveEffects` в `<F>Container`.
-4. `MviStore.dispatch` — только на Main (на Desktop — EDT).
+4. `MviStore.dispatch` — только на Main (на Desktop — EDT); тяжёлая работа ViewModel (проверки, экспорт) идёт через инжектируемый IO-диспетчер, флаги прогресса сбрасываются в `finally`, на scope стоит `CoroutineExceptionHandler` (решения 61, 79, 86).
 5. Только coroutines/Flow; Koin только через конструктор, `KoinComponent` вне composition root запрещён.
 
 Агент использует тот же канон для своих экранов (мастер, статус, Capability Lab) — `core:mvi` подключается как зависимость.
@@ -326,6 +327,13 @@ flowchart TB
 - **Outbox:** события, `shadow/reported`, `cmd/res` сначала пишутся в Room и удаляются по PUBACK — «без потери событий за 24 ч офлайна». Телеметрия и пробы при связи идут сразу (QoS 0), без связи — в буфер.
 - **Capabilities:** доменная матрица «что доступно на этом устройстве» (режим normal/DO, уровень API, выданные разрешения, наличие датчиков). Use case `ExecuteCommand` по ней возвращает `unsupported` с причиной. Матрица заполняется результатами MVP.
 - **Capability Lab** (MVP, остаётся как отладочный экран): по каждому считыванию и DO-действию — статус, сырые значения, кнопка «отправить в MQTT».
+- **Жизненный цикл агента (M1):**
+  - Цикл телеметрии (тик каждые 30 с) крутится в `AgentCycle` на инжектируемом IO-диспетчере, не на Main (решение 61).
+  - Пока цикл работает, держится `PARTIAL_WAKE_LOCK` `RestoFleet:agent` — иначе в suspend тики останавливаются. Владелец замка — последний `Lease`: устаревший цикл не может снять замок нового (решения 81, 88).
+  - `startForeground` вызывается через шов `ForegroundStarter` и защищён: отказ системы пишется в журнал как `start_denied`/`start_failed`, сервис останавливается с `START_NOT_STICKY` (решение 80).
+  - Журнал жизненного цикла и heartbeat — файлы с атомарной починкой оборванного хвоста, запись best effort (решения 49, 62, 63).
+  - L3 = ✅ только после наблюдённого перезапуска сторожем (решение 84).
+- **Отчёт Capability Lab:** JSON (`JsonCapabilityReportWriter`: tmp + `ATOMIC_MOVE`, `.tmp` удаляется в `finally`) пишется во внешний каталог приложения `Android/data/ru.restofleet.agent/files/`; в отчёт не попадают IMEI, MAC и серийный номер (решения 73, 87). «Экспорт» во время «Запустить всё» игнорируется (решение 86).
 
 ---
 

diff --git a/docs/reports/0-mvp/decisions.md b/docs/reports/0-mvp/decisions.md
@@ -115,4 +115,4 @@
 | 85 | M1-fix #1 (исправляет 74): выбор `@StringRes` и аргументов вынесен в `StringSpec.kt` (`LabMessage.toStringSpec`, `SettingsTarget.labelRes`) с тестами; исключения Kover — поимённо для файлов только с composable/preview. Верно так: `annotatedBy` фильтрует и функции; по имени исключаются лишь синтетические лямбды без аннотации | прежний текст 74 («фильтрует только классы») был неверен | — | `StringSpecTest`, `koverVerifyCi` |
 | 86 | M1-fix #3b: `Export` во время «Запустить всё» игнорируется. Экспорт — отдельный прогон всех проверок; «экспорт результатов текущей сессии» отложено | две параллельные прогонки, JSON мог расходиться с экраном | блокировать только повтор | `LabViewModelTest` |
 | 87 | M1-fix #2a/#4/m1: `.tmp` отчёта удаляется в `finally`; `Long`/`CoroutineScope` — только в `appModule.verify`, `KoinGraphTest` резолвит `TelemetryLoop`, `HeartbeatLog`, `AgentNotifications`, `SettingsIntents`, `ForegroundStarter`, `CpuWakeLock`; `WatchdogSchedulerTest` проверяет `repeatIntervalMillis` | — | — | соответствующие тесты |
-| 88 | M1-fix N2 (уточняет 81): общий wake lock принадлежит последнему `Lease` (`CpuWakeLock.acquire` -> `Lease.renew/release`); продление и освобождение устаревшим `Lease` — no-op. `AgentCycle` берёт lease в `start`, освобождает в `stop` и по завершении своей корутины (`invokeOnCompletion`); `TelemetryLoop` только продлевает переданный lease и замок не освобождает (прежний `finally` в цикле снимал замок нового цикла после пересоздания сервиса). Защита от гонки «stop -> последний hold» сохранена: lease освобождается уже после выхода корутины | запоздалый release старого цикла мог оставить CPU без замка до следующего тика, в suspend — навсегда | токен-владелец в `hold/release`; `release` только из `stop()` | `AndroidCpuWakeLockTest` (мутации в отчёте) |
+| 88 | M1-fix N2 (уточняет 81): общий wake lock принадлежит последнему `Lease` (`CpuWakeLock.acquire` -> `Lease.renew/release`); продление и освобождение устаревшим `Lease` — no-op. `AgentCycle` берёт lease в `start`, освобождает в `stop` и по завершении своей корутины (`invokeOnCompletion`); `TelemetryLoop` только продлевает переданный lease и замок не освобождает (прежний `finally` в цикле снимал замок нового цикла после пересоздания сервиса). Защита от гонки «stop -> последний hold» сохранена: lease освобождается уже после выхода корутины | запоздалый release старого цикла мог оставить CPU без замка до следующего тика, в suspend — навсегда | токен-владелец в `hold/release`; `release` только из `stop()` | `AndroidCpuWakeLockTest` (мутации в отчёте); мутант «убрать `release` в `stop()`» не эквивалентен — его убивает `cycleHoldsWakeLockFromStartAndReleasesItOnStop` (без синхронного release замок держится до обработки отмены корутины) |

diff --git a/docs/stages/0-mvp-feasibility.md b/docs/stages/0-mvp-feasibility.md
@@ -32,9 +32,9 @@
 
 | ID | Что проверяем | Как | FR | 26 | 29 | 31 | 33 | 35 | 36 | акт. | Планш. 8.0 | Тел. 12 | Итог / ограничение |
 |---|---|---|---|---|---|---|---|---|---|---|---|---|---|
-| L1 | FGS `specialUse` живёт 12 ч с выключенным экраном (Doze) | ночной прогон, телеметрия каждые 30 с без пропусков > 2 мин | AG-01 | ⏳ | ⏳ | ⏳ | ⏳ | ⏳ | ⏳ | ⏳ | ⏳ | ⏳ | |
+| L1 | FGS `specialUse` живёт 12 ч с выключенным экраном (Doze) | ночной прогон на образе или устройстве, которое реально засыпает (экран выключен, без питания), телеметрия каждые 30 с без пропусков > 2 мин; агент держит `PARTIAL_WAKE_LOCK` (решения № 81, 88) | AG-01 | ⏳ | ⏳ | ⏳ | ⏳ | ⏳ | ⏳ | ⏳ | ⏳ | ⏳ | |
 | L2 | Запуск FGS после перезагрузки | `adb reboot`, проверка `online` | AG-02 | ⏳ | ⏳ | ⏳ | ⏳ | ⏳ | ⏳ | ⏳ | ⏳ | ⏳ | |
-| L3 | Сторож WorkManager перезапускает сервис после `am kill` | `adb shell am kill`, ждать ≤ 15 мин | AG-03 | ⏳ | ⏳ | ⏳ | ⏳ | ⏳ | ⏳ | ⏳ | ⏳ | ⏳ | force-stop не лечится — зафиксировать |
+| L3 | Сторож WorkManager перезапускает сервис после `am kill` | остановить сервис без sticky-перезапуска (отладочное действие или `am stopservice` на debug-сборке), подождать один период сторожа (15 мин), ожидать запись `start\|watchdog` в журнале жизненного цикла; тогда L3 = ✅ | AG-03 | ⏳ | ⏳ | ⏳ | ⏳ | ⏳ | ⏳ | ⏳ | ⏳ | ⏳ | force-stop не лечится — зафиксировать. `am kill` не подходит: он не убивает процесс с FGS, а после убийства `START_STICKY` поднимает сервис раньше сторожа (решение № 84, журнал M1) |
 | L4 | Запрос исключения из оптимизации батареи, уведомлений, Usage Access | мастер настройки | AG-04 | ⏳ | ⏳ | ⏳ | ⏳ | ⏳ | ⏳ | ⏳ | ⏳ | ⏳ | |
 | L5 | Хранение учётки через Android Keystore | запись/чтение после перезагрузки | AG-12 | ⏳ | ⏳ | ⏳ | ⏳ | ⏳ | ⏳ | ⏳ | ⏳ | ⏳ | |
 

diff --git a/docs/handoff.md b/docs/handoff.md
@@ -6,8 +6,8 @@
 
 - **Этап:** MVP-A (эмуляторы) · **ветка:** `stage/0-mvp`
 - **План:** `docs/superpowers/plans/2026-11-05-mvp-a.md`
-- **Последняя завершённая задача:** M1: исправления по итоговому ревью вехи (I1–I7)
-- **Следующая задача:** 1.10 закрытие M1 (отчёт M1.md, handoff, 0-mvp.md)
+- **Последняя завершённая задача:** 1.10 закрытие M1 (отчёт M1.md, handoff)
+- **Следующая задача:** 2.1 домен — Capabilities, команды, ExecuteCommand (план, раздел «Задача 2.1»)
 - **Блокеры:** GitHub-remote не настроен (CI заработает после пуша)
 - **Как поднять стенд:** `deploy/README.md` (4 команды + `./test-stand.sh`); нужен `local.properties` с `sdk.dir` для сборки.
 - **Исполнение:** M0 — в основной сессии; M1–M4 — субагенты (исполнитель + ревьюер на задачу).
@@ -40,3 +40,4 @@
 | 2026-11-06 | 1.8 fix round 1: диспетчер цикла, best-effort журнал, Koin-фабрика сторожа, L3/boot-pin и minor | см. `git log` | agent:data строки 97,2 %, agent:app 98,3 %, агрегат 98,2 %, ветви platform 100 %, полная сборка exit 0 |
 | 2026-11-06 | 1.9 Capability Lab (MVI, JSON-экспорт, P1 параллельно) | см. `git log` | agent:presentation строки 98,6 %, agent:data 97,2 %, агрегат 96,3 %, ветви platform 100 %, полная сборка exit 0; ручная проверка на rf-api36: 43 записи в JSON |
 | 2026-11-07 | M1: исправления по итоговому ревью вехи (I1–I7) | см. `git log` | тесты: build detekt koverVerifyCi konsist rc=0; domain 99.5%, data 97.5%, aggregate 96.3%; rf-api36: wake lock держится |
+| 2026-11-07 | 1.10 закрытие M1 (отчёт M1.md, handoff) | см. `git log` | M1 закрыт: 495 тестов в проекте (453 в M1), строки 97,0 %; Lab на rf-api36: 43 записи, ok 12 / limited 3 / unavailable 3 / not_checked 25 |

diff --git a/docs/superpowers/plans/2026-11-05-mvp-a.md b/docs/superpowers/plans/2026-11-05-mvp-a.md
@@ -598,10 +598,10 @@ data class CheckRowUi(val id: String, val title: String, val badge: Badge /* OK,
 
 ### Задача 1.10: закрытие M1 — отчёт и handoff
 
-- [ ] **Шаг 1:** собрать метрики: `./gradlew build koverHtmlReportCi` (число тестов — из `build/test-results`, покрытие по модулям — из Kover); скриншоты Capability Lab на `rf-api36`.
-- [ ] **Шаг 2:** написать `docs/reports/0-mvp/M1.md` по шаблону из раздела «Отчётность и handoff»; скриншоты — в `docs/reports/0-mvp/img/`.
-- [ ] **Шаг 3:** отметить задачи M1 `[x]` в `docs/stages/0-mvp.md`; перенести в `docs/architecture.md` решения, которые его меняют; обновить `docs/handoff.md` («Следующая задача» — первая задача M2).
-- [ ] **Шаг 4: коммит** `docs(mvp): M1 report and handoff`.
+- [x] **Шаг 1:** собрать метрики: `./gradlew build koverHtmlReportCi` (число тестов — из `build/test-results`, покрытие по модулям — из Kover); скриншоты Capability Lab на `rf-api36`.
+- [x] **Шаг 2:** написать `docs/reports/0-mvp/M1.md` по шаблону из раздела «Отчётность и handoff»; скриншоты — в `docs/reports/0-mvp/img/`.
+- [x] **Шаг 3:** отметить задачи M1 `[x]` в `docs/stages/0-mvp.md`; перенести в `docs/architecture.md` решения, которые его меняют; обновить `docs/handoff.md` («Следующая задача» — первая задача M2).
+- [x] **Шаг 4: коммит** `docs(mvp): M1 report and handoff`.
 
 ---
 

diff --git a/docs/stages/0-mvp.md b/docs/stages/0-mvp.md
@@ -66,10 +66,10 @@ restofleet/
 - [x] `deploy/`: Mosquitto TLS + DynSec + persistence; скрипт CA.
 
 ### M1. Агент: все считывания (2–3 дня)
-- [ ] `agent:domain`: сущности, порты, `CollectTelemetry`, `RunCapabilityCheck` — тесты первыми.
-- [ ] `agent:data`: коллекторы R1–R14, проверки P1–P4; чистые функции маппинга с unit-тестами.
-- [ ] `agent:app`: FGS `specialUse`, BOOT_COMPLETED, сторож.
-- [ ] `agent:presentation`: Capability Lab (MVI, тесты Reducer/Mapper/ViewModel).
+- [x] `agent:domain`: сущности, порты, `CollectTelemetry`, `RunCapabilityCheck` — тесты первыми.
+- [x] `agent:data`: коллекторы R1–R14, проверки P1–P4; чистые функции маппинга с unit-тестами.
+- [x] `agent:app`: FGS `specialUse`, BOOT_COMPLETED, сторож.
+- [x] `agent:presentation`: Capability Lab (MVI, тесты Reducer/Mapper/ViewModel).
 
 ### M2. Device Owner и команды (1–2 дня)
 - [ ] `AdminReceiver`, `deviceadmin/`: D1–D6; команды C1–C4.
